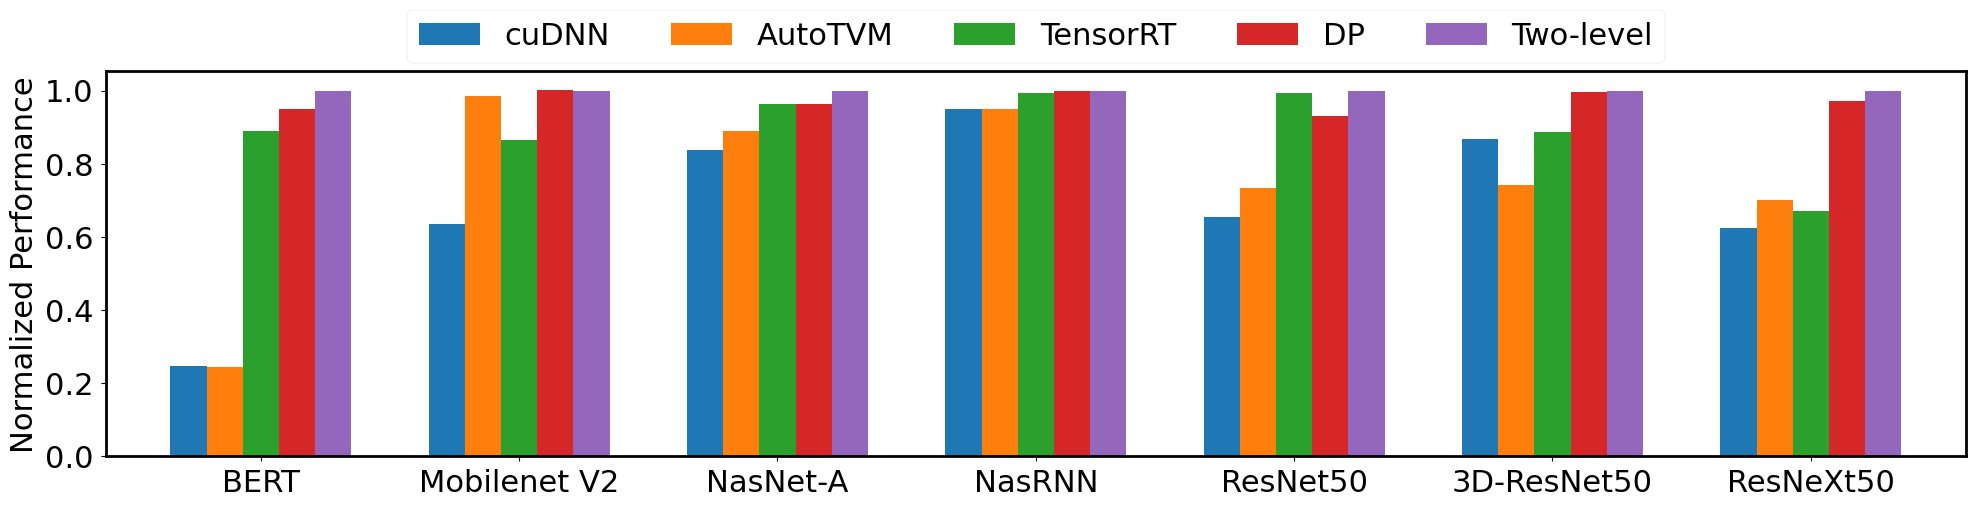
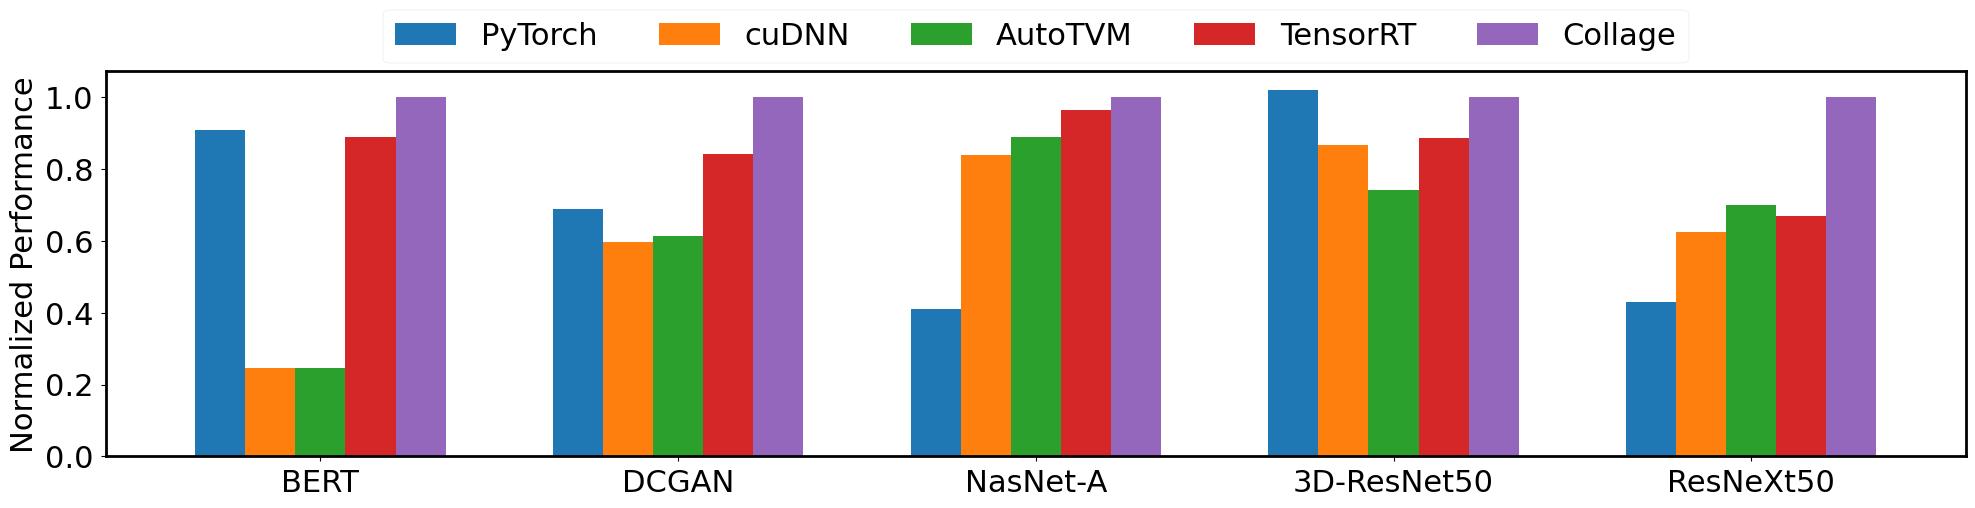
[E2E perf plot] simplified to show 5 nets, and two-level results only

diff --git a/sandbox/testing/plot_e2e_perf.py b/sandbox/testing/plot_e2e_perf.py
@@ -11,12 +11,15 @@ FINAL_NETWORKS = ["resnext50_32x4d", "bert", "dcgan", "nasneta", 'resnet50_3d']
 
 def setup_df_for_perf_plot(df):
     # Make sure column order is following before we normalize perf
-    df = df[['cuDNN', 'AutoTVM', 'TensorRT', 'DP', 'Two-level']]
+    df = df[['PyTorch', 'cuDNN', 'AutoTVM', 'TensorRT', 'DP', 'Two-level']]
+    df = df.drop(columns=['DP'])
+    df = df.rename(columns={'Two-level': 'Collage'})
+    df = df.drop(['Mobilenet V2', 'ResNet50', 'NasRNN'])
 
     # Normalize the performance
     for method in df:
         print(method)
-        df[method] = df['Two-level'] / df[method]
+        df[method] = df['Collage'] / df[method]
 
     return df
 
